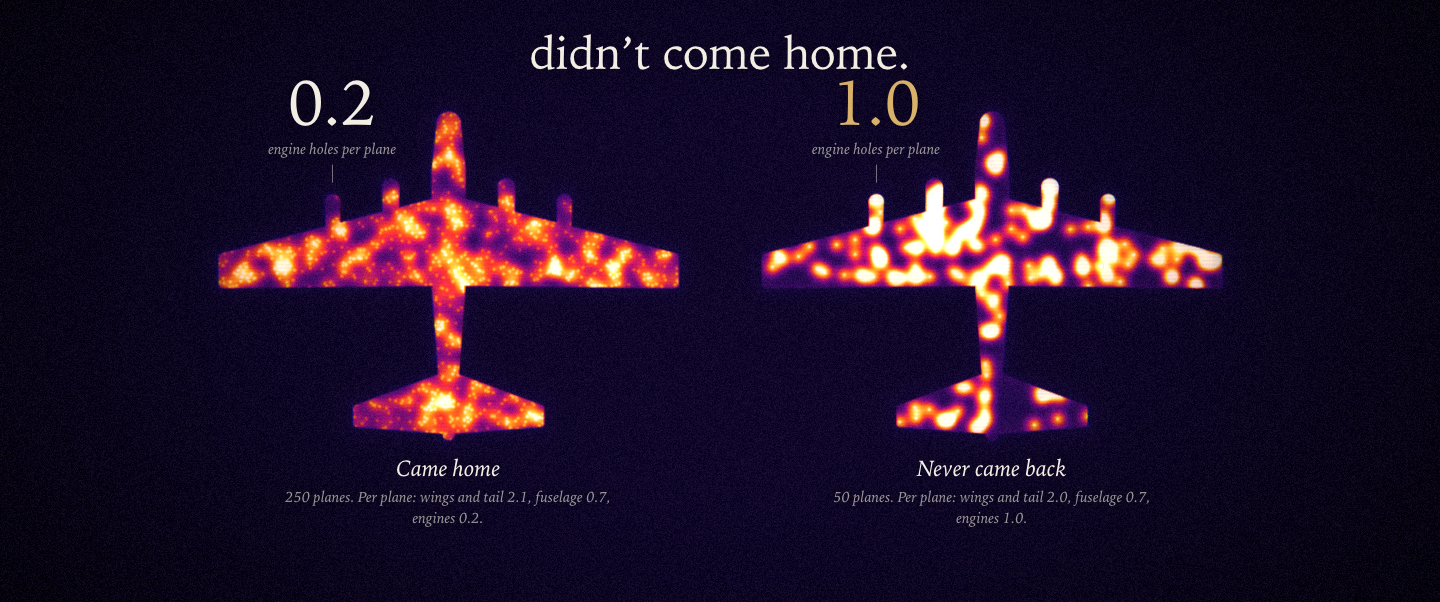
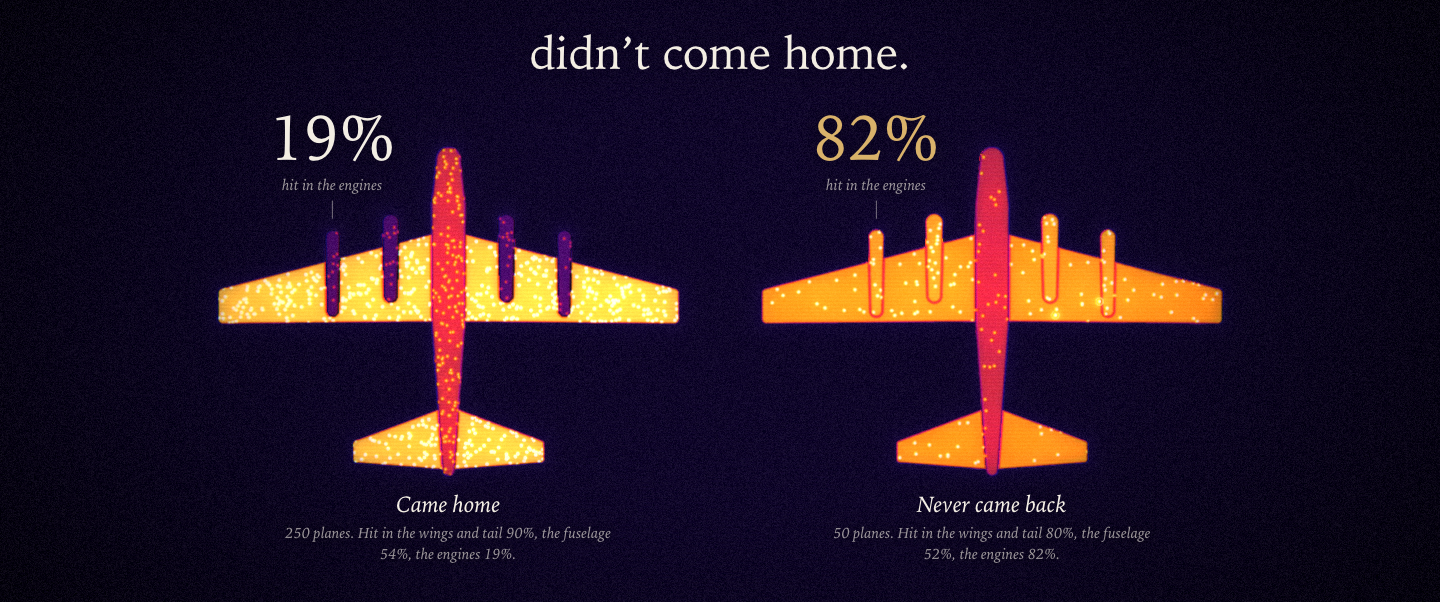
holes: the share of planes hit in each part (19% vs 82% for engines), and a heat map that resolves into three parts
model.js adds shareHit(). test_model.mjs pins the percentages on screen:
engines 19%/82%, wings and tail 90%/80%, fuselage 54%/52%. The thermal medium
can fill each part with its share (uP[0..2]), with seams between the parts, so
the scattered holes resolve into three clear hotspots. Docs and preview updated.

Claude-Session: https://claude.ai/code/session_019jLLcFd9prKR5gX5ybcAYv

Changed region(s): [[0.5312, 0.1196, 0.875, 0.9269], [0.125, 0.1196, 0.5, 0.9269]]

diff --git a/media-core.js b/media-core.js
@@ -26,8 +26,20 @@ vec3 m_thermal(vec2 p, float d, vec2 n, Hole h) {
   } else {
     // the plane: skin a little warmer than the sky, then the holes' heat
     float heat = uFX.x * (h.dens + uFX.y * h.densLost);
-    T = mix(.07 + .05 * exp(-max(d, 0.) * 30.), .17 + .06 * exp(d * 40.) + heat, inside);
-    if (h.on) T += inside * .25 * sat(1. - h.r);
+    float Tin = .17 + .06 * exp(d * 40.) + heat;
+    // the pattern, resolved: each part filled by the share of planes hit there
+    // (uP[0] came home, uP[1] lost: engines, wings and tail, fuselage), blended in by uP[2].x / uP[2].y
+    bool lostSide = gSide > .5;
+    float zm = lostSide ? uP[2].y : uP[2].x;
+    if (zm > 0. && gZone >= 0) {
+      vec4 v = lostSide ? uP[1] : uP[0];
+      float share = gZone == 0 ? v.x : gZone == 1 ? v.y : v.z;
+      float Tz = .12 + .8 * share + .03 * (fbm(gLocal * 5. + uTime * .08) - .5);
+      Tin = mix(Tin, Tz, zm);
+    }
+    if (h.on) Tin += (.25 + .15 * zm) * sat(1. - h.r);
+    T = mix(.07 + .05 * exp(-max(d, 0.) * 30.), Tin, inside);
+    if (zm > 0. && gZone >= 0) T -= .22 * zm * inside * (1. - smoothstep(0., 2.5 * gPix, abs(zoneD(gLocal, gZone)) * uPlane.z));   // seams between the parts
   }
   T += .012 * (hash21(floor(p / gPix / 2.) + floor(uTime * 12.)) - .5);           // sensor noise
   vec3 col = ironbow(T);

diff --git a/model.js b/model.js
@@ -105,6 +105,12 @@
     lost: S.holes.filter(h => h.lost && h.z === z).length / S.lost,
   }));
 
+  // the share of planes with at least one hole in each part: the film's headline numbers
+  M.shareHit = S => M.ZONES.map((zone, z) => {
+    const hit = s => s.hits.some(h => h.z === z), back = S.sorties.filter(s => !s.lost), lost = S.sorties.filter(s => s.lost);
+    return { zone, back: back.filter(hit).length / back.length, lost: lost.filter(hit).length / lost.length };
+  });
+
   // the viewer's own plane: one of the 300, so the chance it's lost is the data's own 1 in 6
   M.pickSortie = (S, rand, fate) => {
     const pool = fate === "lost" ? S.sorties.filter(s => s.lost) : fate === "home" ? S.sorties.filter(s => !s.lost) : S.sorties;

diff --git a/README.md b/README.md
@@ -34,17 +34,22 @@ The story's data is a simulation, in `model.js`. There are 300 sorties:
 - A hit in an engine brings the plane down 42% of the time. A hit anywhere else does so 1% of the time.
 - With seed 168, 250 planes come home and 50 are lost, the one in six of 1943's worst raids.
 
-| holes per plane | came home (250) | never came back (50) |
+The film's headline number is the share of planes with at least one hole in each part:
+
+| share of planes hit | came home (250) | never came back (50) |
 |---|---|---|
-| engines | 0.2 | 1.0 |
-| wings and tail | 2.1 | 2.0 |
-| fuselage | 0.7 | 0.7 |
+| engines | 19% | 82% |
+| wings and tail | 90% | 80% |
+| fuselage | 54% | 52% |
+
+(As holes per plane: engines 0.2 against 1.0, wings and tail 2.1 against 2.0, fuselage 0.7 against 0.7.)
 
 The engines are the only part where the two groups differ. The planes hit there are missing from the count, so the survivors' engines look safe.
 
-The heat maps are honest densities:
-- Every hole is splatted with the same kernel.
-- In the split view each side is divided by its own number of planes (250 and 50), so the two are compared per plane.
+The heat maps are honest:
+- While the holes land, the heat is their density. Every hole is splatted with the same kernel.
+- In the split view, each side is divided by its own number of planes (250 and 50), so the two are compared per plane.
+- Then the pattern resolves: each part is filled by its share of planes hit, the number on screen.
 - `test_model.mjs` checks every number above.
 - `test_film.py` runs it and checks that the pages load nothing from the network.
 

diff --git a/TALK.md b/TALK.md
@@ -29,10 +29,10 @@ The whole film runs about 4 minutes. Skipping II (Home) and VII (the echo) bring
 > "Your plane didn't come home. Remember that: its holes will never be counted."
 
 **The count:**
-> "Every hole on every plane that came home. Engines: two holes for every ten planes. Wings and tail: two per plane."
+> "Every hole on every plane that came home. 90% of them were hit in the wings and tail. Only 19% in the engines."
 
 **The reveal**, as the ghosts' holes fall into the engines:
-> "Same parts, same number of holes, except one. The planes hit in the engines didn't come home. The holes you can see are where a plane can take a hit and still fly home."
+> "Every part was hit about as often on both groups of planes, except one: the engines, 19% against 82%. The planes hit in the engines didn't come home. The holes you can see are where a plane can take a hit and still fly home."
 
 **Close**, on the credits:
 > "Every story you hear comes from someone who came home. This film was written with Claude. A small team of Claude agents painted the art media, the sky, the airfield and the score in parallel against one engine, and every frame you saw was computed live."
